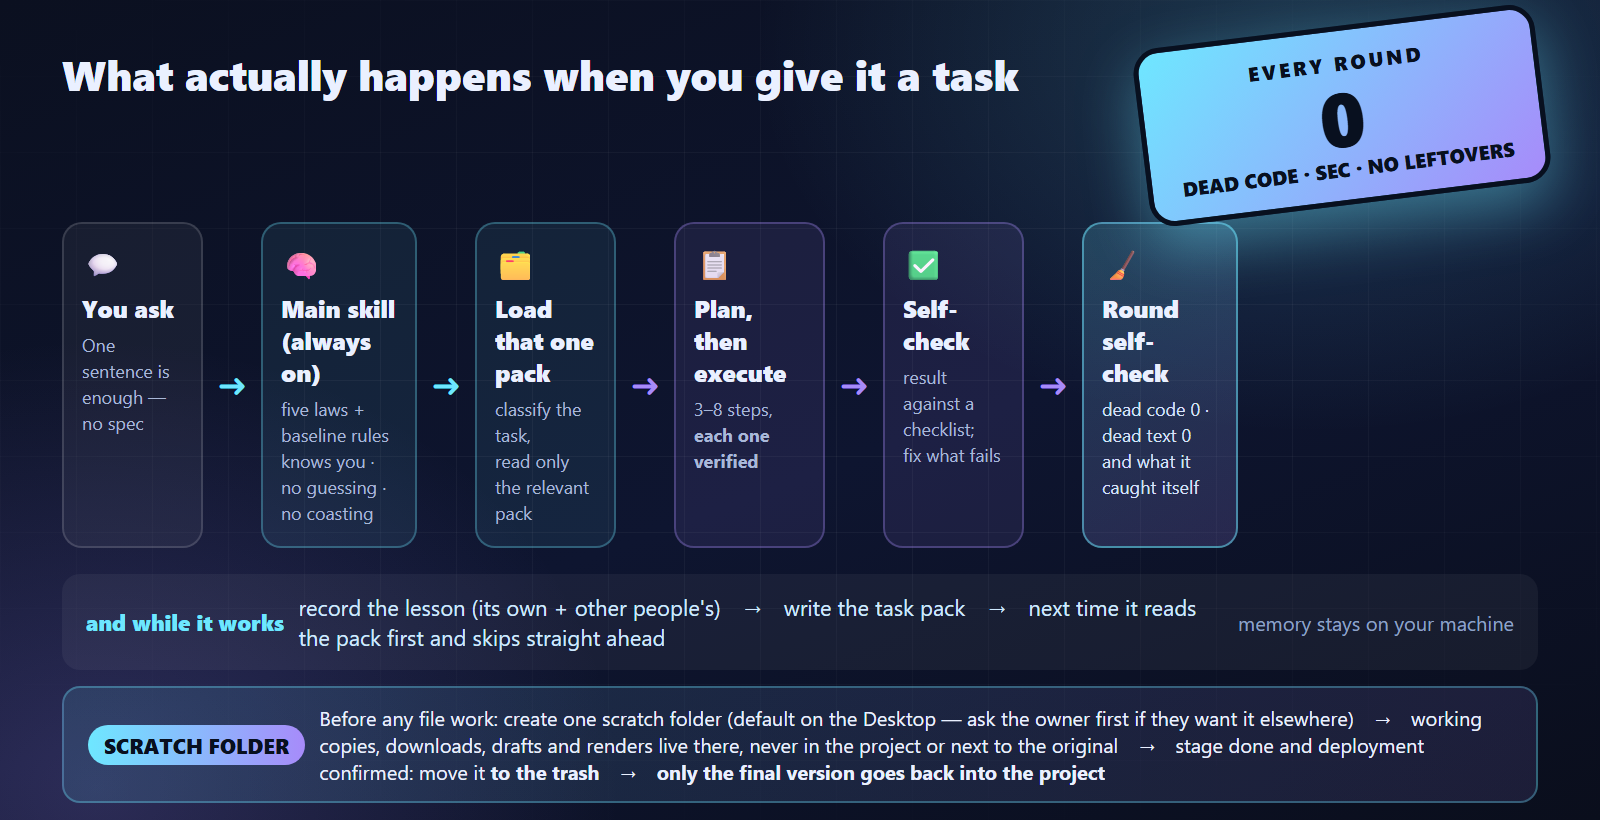
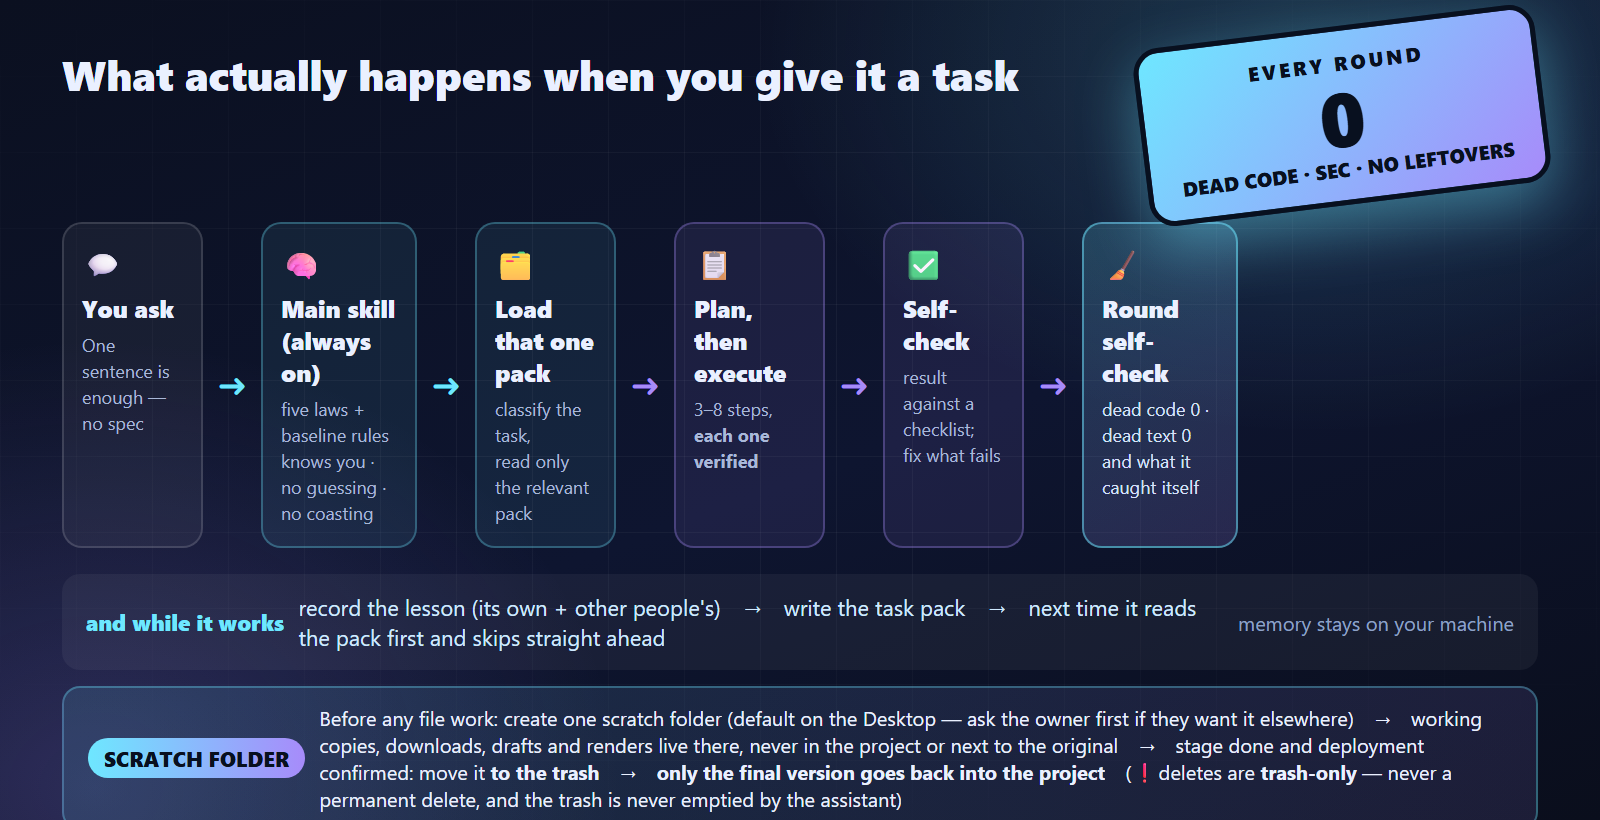
0.11.2: trash-only delete rule present in every layer (skill, README both languages, AGENTS, llms, INSTALL, diagrams)

Changed region(s): [[0.1875, 0.9146, 0.9688, 1.0], [0.0312, 0.8841, 0.1875, 0.9756], [0.0312, 0.9756, 0.0625, 1.0]]

diff --git a/AGENTS.md b/AGENTS.md
@@ -128,6 +128,9 @@ diagrams in `assets/`, and any promo material. A half-updated manual is a bug.
 
 ## 4. Hard constraints (do not violate)
 
+- **Deleting: to the trash, never for real.** Files, folders and temporary files are moved to the recycle
+  bin / trash, never permanently deleted, and you never empty the trash — that is the owner's decision.
+  If the trash tool is unavailable, stop and ask.
 - **Licence: all rights reserved.** You may copy this skill for the user's own use.
   You may **not** re-upload it, modify and redistribute it, or present it as your own work.
   See [LICENSE](LICENSE).
@@ -209,6 +212,8 @@ curl -fsSL https://raw.githubusercontent.com/a42599-blip/lorekeeper/main/_instal
 
 ### 硬性限制
 
+- **刪除：一律進資源回收筒，永不永久刪除。** 檔案、資料夾、暫存檔都是移到回收筒／垃圾桶，
+  不永久刪除，而且**永遠不能清空回收筒**——那是主人的決定。工具不能用就停下來問。
 - **授權：保留所有權利。** 你可以幫使用者複製自用；**不可以**重新上傳、修改後再散布、或當成自己的作品。
 - **隱私**：不要把使用者的私人資料複製到任何會離開他電腦的地方。
 - **不准默默安裝**：這顆技能要幫使用者裝任何東西，都必須先取得他明確同意。

diff --git a/CHANGELOG.md b/CHANGELOG.md
@@ -3,6 +3,24 @@
 All notable changes to this project are recorded here.
 Format: date — change. Versions are loose (this is a document-driven skill).
 
+## [0.11.2] — 2026-09-30
+
+**The trash-only delete rule now appears in every layer of the public repository.**
+
+Checked item by item, so the answer is not a claim but a list:
+
+| Layer | Where the rule appears |
+|:---|:---|
+| The skill itself | `SKILL.md` **B5** (English) · `locales/zh-TW/SKILL.zh-TW.md` **B5** (Chinese) |
+| The manual | `README.md` — a dedicated 🔒 callout in **both** language halves, plus B5 in both rule tables |
+| For AI assistants | `AGENTS.md` — now also under **Hard constraints**, and in the follow-the-skill section |
+| Machine index | `llms.txt` — baseline rules line |
+| Installation guide | `INSTALL.md` — the uninstall steps in **both** halves say to move the folder to the trash |
+| Diagrams | `selfcheck.png` / `selfcheck-en.png` — a highlighted box under the report block; `process.png` / `process-en.png` — stated inside the scratch-folder band |
+
+Nothing about the rule changed in substance; what changed is that it is no longer possible to read the
+front page, the skill, or a diagram and miss it.
+
 ## [0.11.1] — 2026-09-30
 
 **The delete rule was written but not *visible*. Now it is.**

diff --git a/INSTALL.md b/INSTALL.md
@@ -115,8 +115,9 @@ Nothing is uploaded anywhere. To wipe everything it learned, delete that folder.
 
 ## Uninstall
 
-1. Delete the skill folder (the `lorekeeper` folder you installed).
-2. Optionally delete `~/.lorekeeper/` (this removes everything it learned).
+1. Delete the skill folder (the `lorekeeper` folder you installed) — **move it to the trash / recycle bin,
+   never a permanent delete.**
+2. Optionally delete `~/.lorekeeper/` the same way (this removes everything it learned).
 
 No services, no background processes, no system changes to undo.
 
@@ -242,7 +243,7 @@ export SKILLS_DIR="/我的/技能資料夾"       # macOS / Linux
 
 ## 移除
 
-1. 刪掉技能資料夾（你裝進去的那个 `lorekeeper` 資料夾）。
-2. 也可以順便刪掉 `~/.lorekeeper/`（這會清掉它學過的所有東西）。
+1. 刪掉技能資料夾（你裝進去的那个 `lorekeeper` 資料夾）——**丟到資源回收筒／垃圾桶，不要永久刪除**。
+2. 也可以順便刪掉 `~/.lorekeeper/`（同樣丟回收筒；這會清掉它學過的所有東西）。
 
 沒有服務、沒有背景程序、沒有任何系統設定需要還原。
